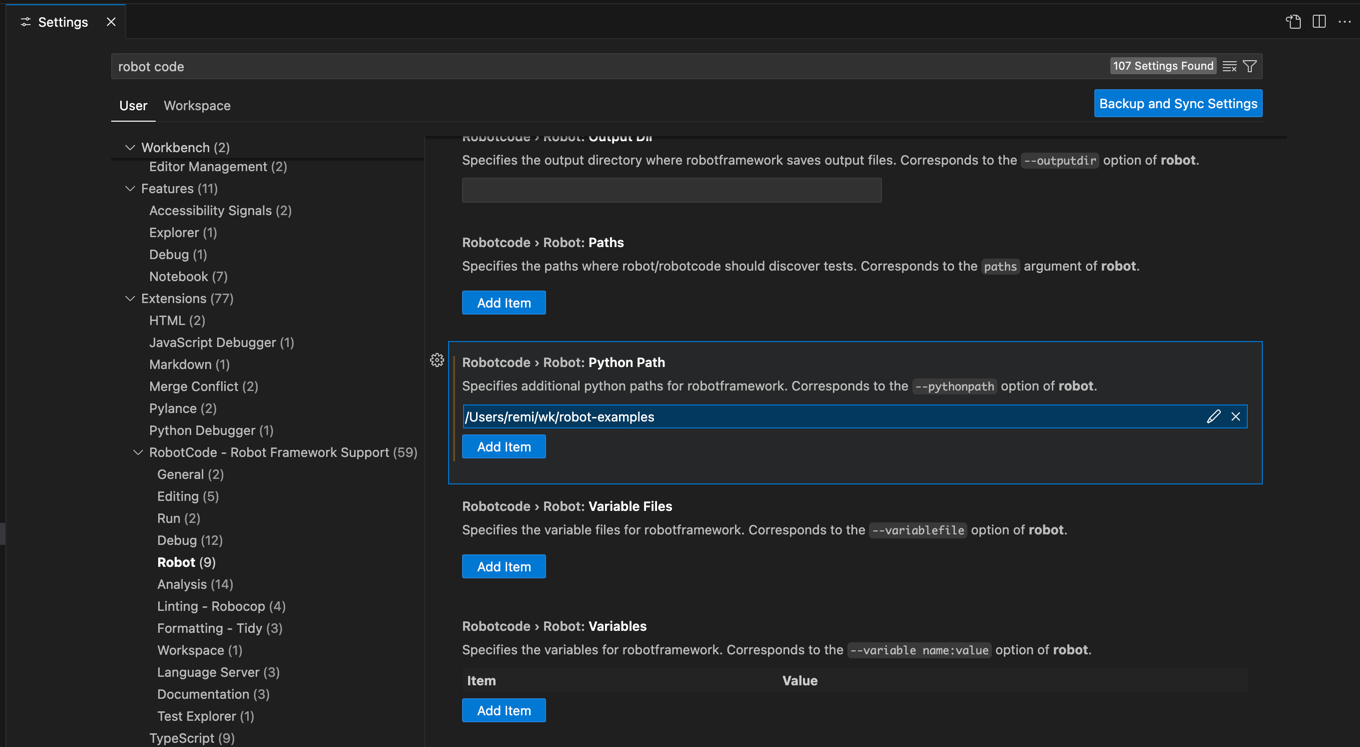
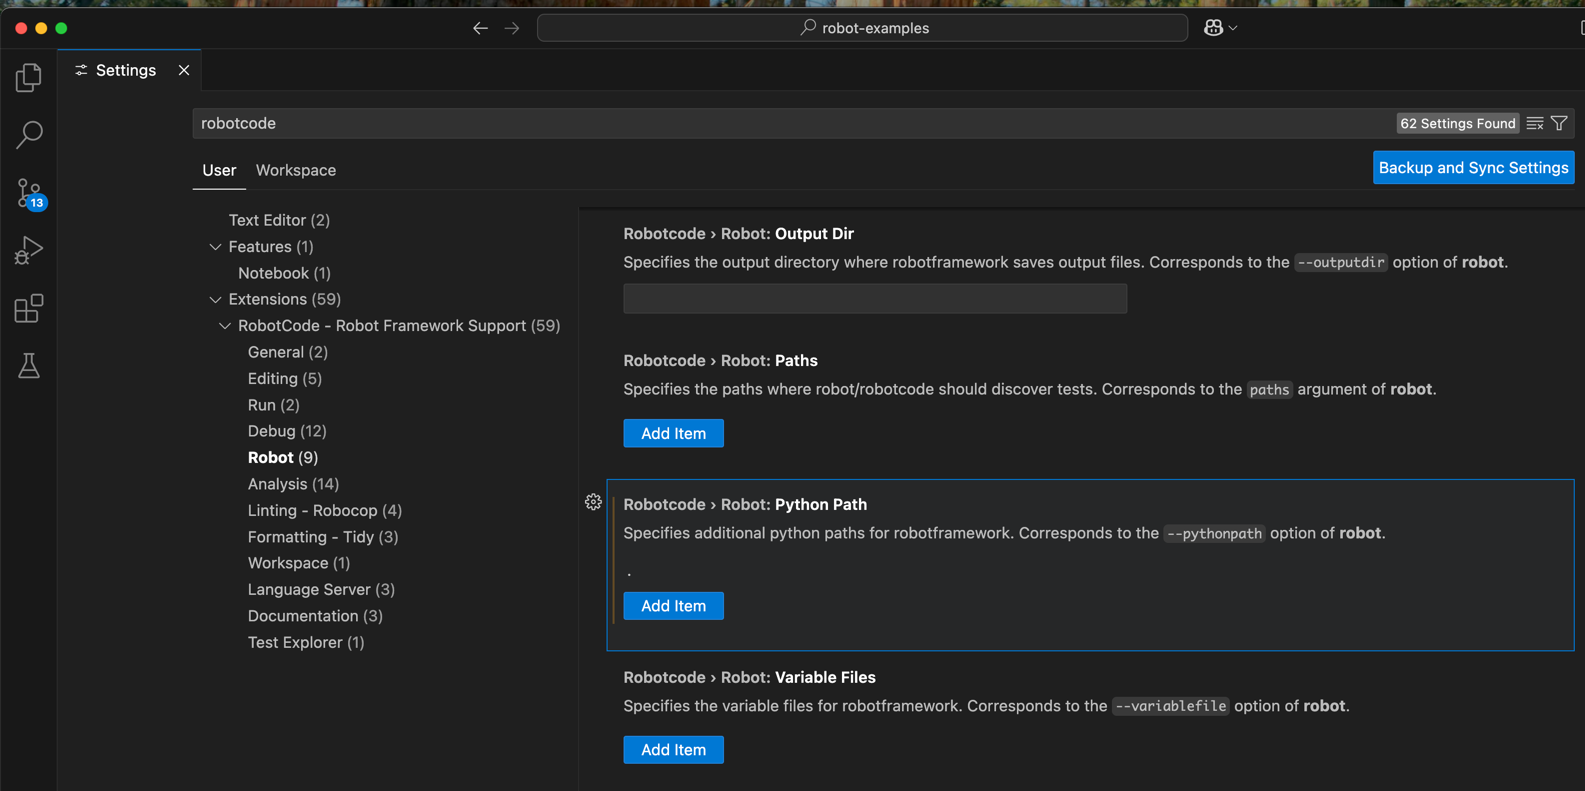
Met à jour l'option VSCode RoboCode Python Path

diff --git a/docs/configuration-ide.md b/docs/configuration-ide.md
@@ -47,9 +47,20 @@ En résumé :
 !!! warning "Choisir le bon plugin"
 Ne pas installer `Robot Framework Language Server` qui n'est pas compatible Robot Framework 7+
 
-Configurer le Python Path dans les options RobotCode :
+<br/>
+
+Configurer l'option **Python Path** avec dossier courant `.` dans les options RobotCode :
 
 ![pythonpath.png](pythonpath.png)
+
+Cette option permet d'utiliser des imports relatifs à la racine du projet.
+
+Par exemple, depuis un test robot dans le dossier `tests` :
+
+```robot
+*** Settings ***
+Resource    resources/todo_mvc/todo_mvc.resource
+```
 
 ### Fonctionnalités disponibles dans VSCode
 
